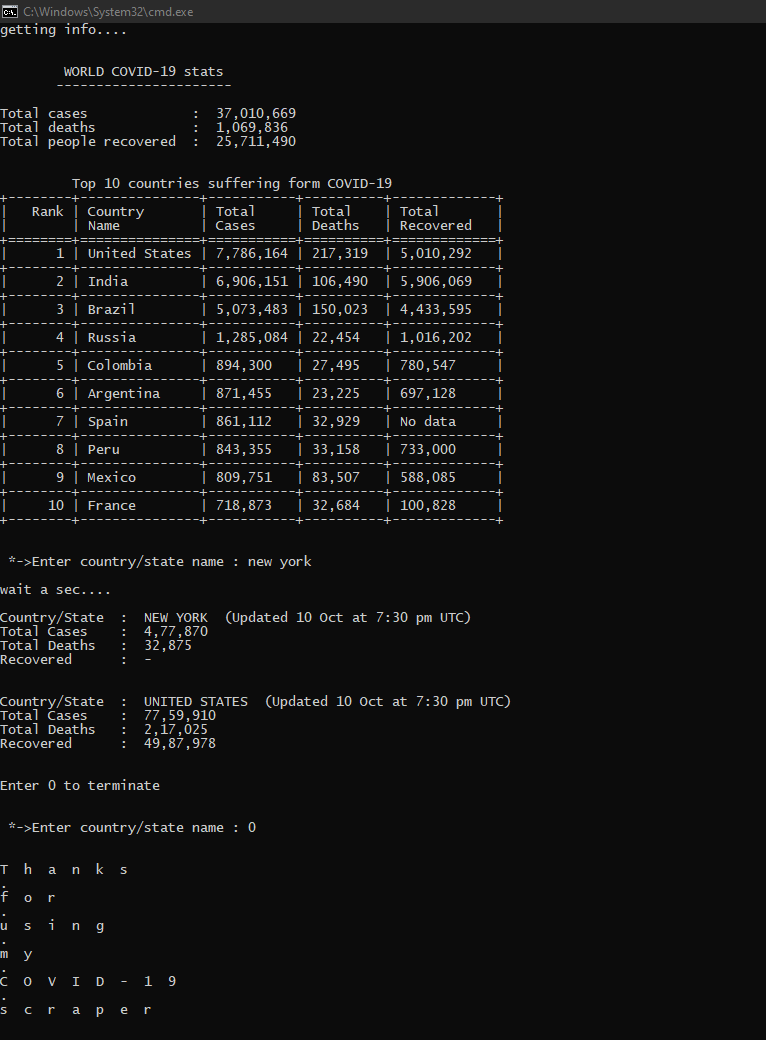
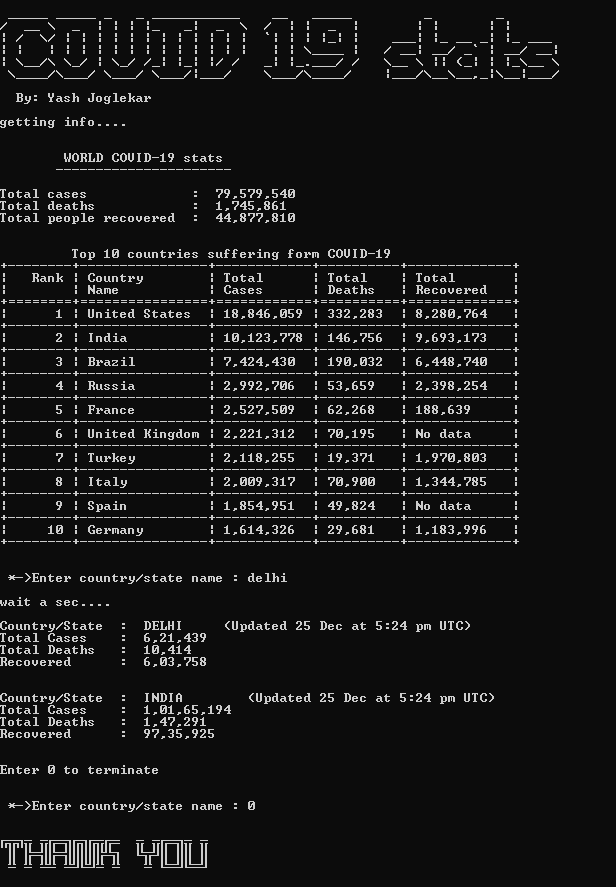
Updated README.md and Screenshot.png

diff --git a/COVID-19_scraper.py b/COVID-19_scraper.py
@@ -1,6 +1,7 @@
 import requests
 from bs4 import BeautifulSoup
 from tabulate import tabulate
+from time import sleep
 
 
 def makeTable(table,headers,tablefmt):
@@ -36,6 +37,17 @@ def statsFind():
             statsFind()
 
 
+print('''
+ _____ _____ _   _ ___________    __   _____         _        _       
+/  __ \  _  | | | |_   _|  _  \  /  | |  _  |       | |      | |      
+| /  \/ | | | | | | | | | | | |  `| | | |_| |    ___| |_ __ _| |_ ___ 
+| |   | | | | | | | | | | | | |   | | \____ |   / __| __/ _` | __/ __|
+| \__/\ \_/ | \_/ /_| |_| |/ /   _| |_.___/ /   \__ \ || (_| | |_\__ \ 
+ \____/\___/ \___/ \___/|___/    \___/\____/    |___/\__\__,_|\__|___/
+ 
+  By: Yash Joglekar''')
+
+
 print("\ngetting info....\n")
 url="https://en.wikipedia.org/wiki/Template:COVID-19_pandemic_data"
 header = {'User-Agent': "Chrome/6.0.472.63 Safari/534.3"}
@@ -52,6 +64,8 @@ print('''\n        WORLD COVID-19 stats
        ----------------------\n''')
 print(makeTable(table,[],"plain")+"\n\n")
 
+sleep(2)
+
 print("         Top 10 countries suffering form COVID-19")
 top10=[]
 header= ["Rank", "Country\nName", "Total\nCases", "Total\nDeaths", "Total\nRecovered"]
@@ -64,5 +78,11 @@ for i in range(3,13,1):
 
 print(makeTable(top10,header,"grid"))
 
+sleep(1)
+
 statsFind()
-print("\n\n"+makeTable("Thanks . for . using . my . COVID-19 . scraper".split(),[],"plain"))
+print('''\n
+╔╦╗╦ ╦╔═╗╔╗╔╦╔═  ╦ ╦╔═╗╦ ╦
+ ║ ╠═╣╠═╣║║║╠╩╗  ╚╦╝║ ║║ ║
+ ╩ ╩ ╩╩ ╩╝╚╝╩ ╩   ╩ ╚═╝╚═╝
+''')

diff --git a/README.md b/README.md
@@ -1,7 +1,5 @@
 # COVID-19 scraper
 
-*Issue [330](#330)*
-
 Unlike other the scraper, with this one, you can even search for the stats for any particular country/state.
 This script, after running, displays the following things:
 1. COVID-19 stats including total cases, total deaths, people recovered.
@@ -18,20 +16,20 @@ You can search an infinite number of times without exiting the script.
     - [BeautifulSoup4](https://www.crummy.com/software/BeautifulSoup/bs4/doc/ "BeautifulSoup's documantation")
     - [Tabulate](https://pypi.org/project/tabulate/ "Tabulate's documantation")
 
-    *(Or just run this command in the cmd prompt `pip install -r requirements.txt`)*
+    *(Or just run this command in the cmd prompt at the file's location `pip install -r requirements.txt`)*
 3. Stable internet connection
 
 ## How to run the script
 
 Just run the `COVID-19_scraper.py`, it will automatically display the world stats and stats of the top-10 countries.
 
-Then it'll ask you to enter the name of country/state, please be specific with the spelling or it may show you stats of undesired country/state.
+Then it'll ask you to enter the name of country/state, please be specific with the spelling, or it may show you stats of undesired country/state.
 
 As the search query is an infinite loop, to terminate it, just enter `0` in the input field.
 
 ## Screenshot/GIF showing the sample use of the script
 
-### This how it looks
+#### This how it looks
 
 <img src="Screenshot.png" alt="Screenshot of the scraper">
 
